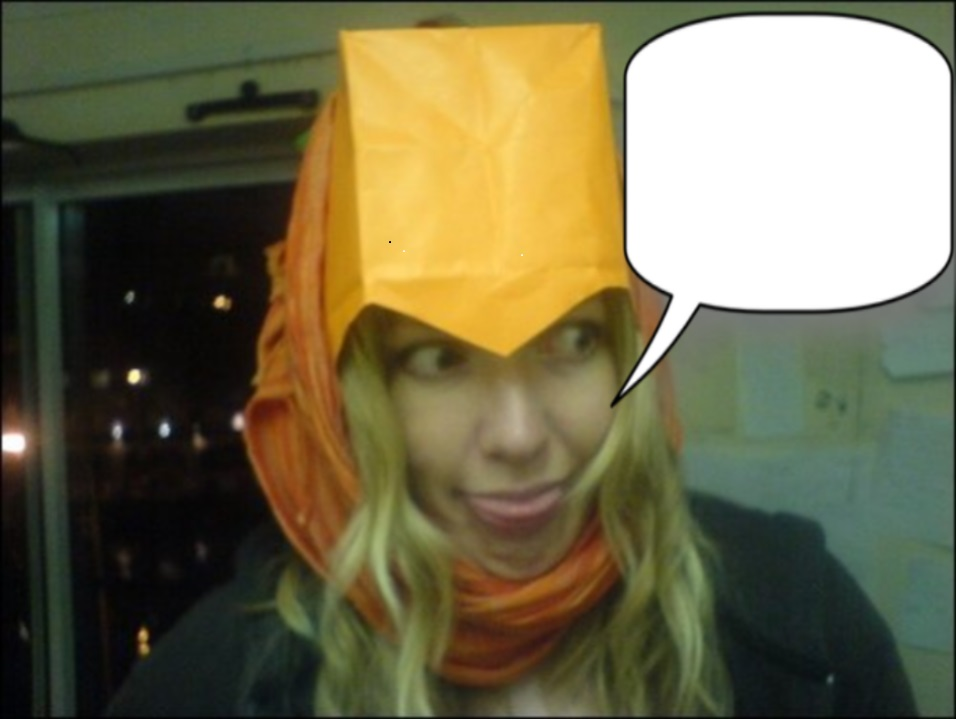
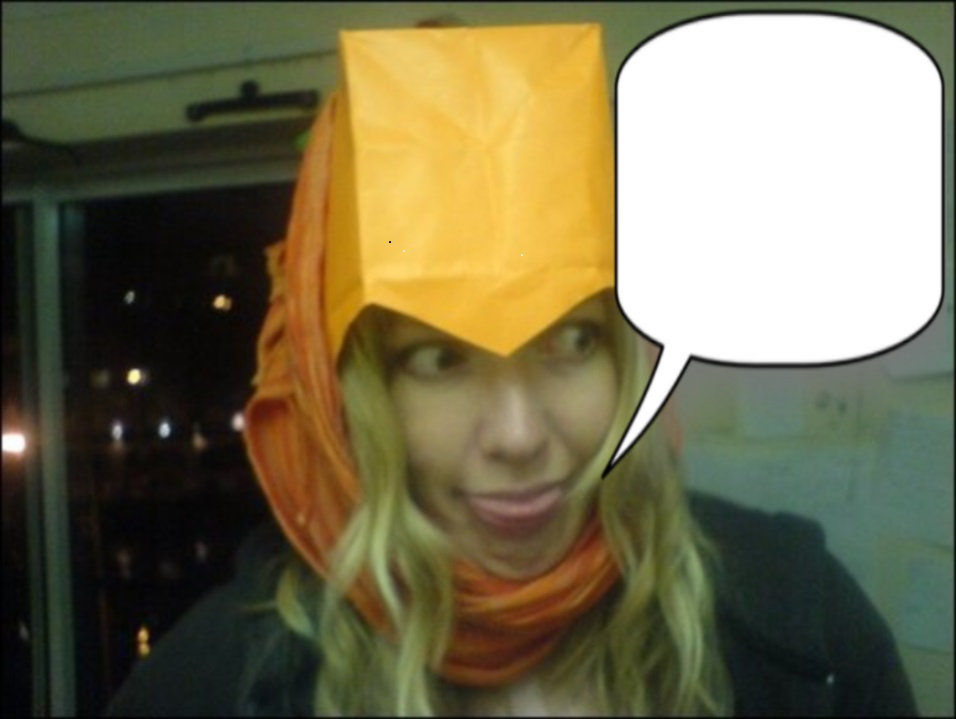
fixed some bugs and added some characters

Changed region(s): [[0.6067, 0.0306, 1.0, 0.6732], [0.728, 0.0, 0.91, 0.0306]]

diff --git a/Content/Site.css b/Content/Site.css
@@ -760,7 +760,7 @@ tr.pager td {
 position:relative;
 left:0px;
 top:0px;
-margin-top: 20px;
+margin-top: 70px;
 }
 .messageInput {
     border:0px; /*important*/
@@ -779,9 +779,18 @@ border: 1px solid #787878;
 cursor: pointer;
 font-size: 1.2em;
 font-weight: 600;
-padding: 5px;
+padding: 5px 5px 9px 25px;
 width: 100px;
 display:block;
 float: left;
 margin-right: 6px;
+}
+
+#buttonContainer {
+    width:100%;
+    clear:both;
+
+}
+h2 {
+margin-bottom:15px;
 }

diff --git a/Migrations/Configuration.cs b/Migrations/Configuration.cs
@@ -52,9 +52,9 @@ namespace IsmsWebApplication.Migrations
                    {
                        BaseImageUrl = "~/Images/ievaThought.jpg",
                        BubbleTextInputHeight = "190",
-                       BubbleTextInputWidth = "280",
-                       BubbleTextInputLeft = "590",
-                       BubbleTextInputTop = "45",
+                       BubbleTextInputWidth = "290",
+                       BubbleTextInputLeft = "570",
+                       BubbleTextInputTop = "60",
                        CreatedOn = DateTime.UtcNow,
                        TargetName = "Ieva",
                        Username = adminUser
@@ -62,12 +62,34 @@ namespace IsmsWebApplication.Migrations
            configs.Add(new IsmConfiguration()
            {
                BaseImageUrl = "~/Images/kristinespeech.jpg",
-               BubbleTextInputHeight = "190",
+               BubbleTextInputHeight = "300",
                BubbleTextInputWidth = "280",
                BubbleTextInputLeft = "640",
-               BubbleTextInputTop = "60",
+               BubbleTextInputTop = "50",
                CreatedOn = DateTime.UtcNow,
                TargetName = "Kristine",
+               Username = adminUser
+           });
+           configs.Add(new IsmConfiguration()
+           {
+               BaseImageUrl = "~/Images/taniaspeech.jpg",
+               BubbleTextInputHeight = "190",
+               BubbleTextInputWidth = "380",
+               BubbleTextInputLeft = "540",
+               BubbleTextInputTop = "60",
+               CreatedOn = DateTime.UtcNow,
+               TargetName = "Tania",
+               Username = adminUser
+           });
+           configs.Add(new IsmConfiguration()
+           {
+               BaseImageUrl = "~/Images/editespeech.jpg",
+               BubbleTextInputHeight = "200",
+               BubbleTextInputWidth = "270",
+               BubbleTextInputLeft = "180",
+               BubbleTextInputTop = "20",
+               CreatedOn = DateTime.UtcNow,
+               TargetName = "Edite",
                Username = adminUser
            });
            foreach (var c in configs)

diff --git a/Controllers/IsmController.cs b/Controllers/IsmController.cs
@@ -18,9 +18,11 @@ namespace IsmsWebApplication.Controllers
         public ActionResult Random()
         {
             var result = GetRandomResult();
-            ViewBag.Title = result.IsmConfiguration.TargetName + "ism";
+
             if (result != null)
-                return RedirectToRoute("t_redirect", routeValues: new { Id = result.Id });
+            {                
+                return RedirectToAction("Details", "Ism", new { Id = result.Id });             
+            }
 
             return View();
         }
@@ -70,7 +72,8 @@ namespace IsmsWebApplication.Controllers
                 db.SaveChanges();
             }
 
-            ViewBag.Title = result.IsmConfiguration.TargetName + "ism";
+            ViewBag.TitleHeader =string.Format("{0}ism #{1}", result.IsmConfiguration.TargetName,result.Id);
+            ViewBag.Title = "Isms - " + ViewBag.TitleHeader;
             return View(result);
         }
         [HttpGet]
@@ -123,7 +126,7 @@ namespace IsmsWebApplication.Controllers
             };
             db.Isms.Add(t);
             db.SaveChanges();
-            return RedirectToRoute("t_redirect", routeValues: new { Id = t.Id });
+            return RedirectToAction("Details", "Ism", new { Id = t.Id });   
 
         }
     }

diff --git a/App_Start/RouteConfig.cs b/App_Start/RouteConfig.cs
@@ -14,16 +14,19 @@ namespace IsmsWebApplication
             routes.MapMvcAttributeRoutes();
 
             routes.IgnoreRoute("{resource}.axd/{*pathInfo}");
+
             routes.MapRoute(
-            name: "random_redirect",
-            url: "random",
-            defaults: new { controller = "Ism", action = "Random" }
+                name: "random_redirect",
+                url: "random",
+                defaults: new { controller = "Ism", action = "Random" }
             );
-            routes.MapRoute(
-         name: "t_redirect",
-         url: "ism/{id}",
-         defaults: new { controller = "Ism", action = "Details", id = UrlParameter.Optional }
-     );
+
+           // routes.MapRoute(
+           //     name: "t_redirect",
+           //     url: "ism/{id}",
+          //      defaults: new { controller = "Ism", action = "Details", id = UrlParameter.Optional }
+          //  );
+
             routes.MapRoute(
                 name: "Default",
                 url: "{controller}/{action}/{id}",

diff --git a/App_Start/AuthConfig.cs b/App_Start/AuthConfig.cs
@@ -23,8 +23,8 @@ namespace IsmsWebApplication
             //    consumerSecret: "");
 
             OAuthWebSecurity.RegisterFacebookClient(
-                appId: "215230322000284",
-                appSecret: "cae9af6570b5c1c55ef7e4ab0eb568ae");
+                appId: "1462452777311627",
+                appSecret: "6a3af9faef4ecb565da7f3ec92a8527b");
 
             //OAuthWebSecurity.RegisterGoogleClient();
         }
